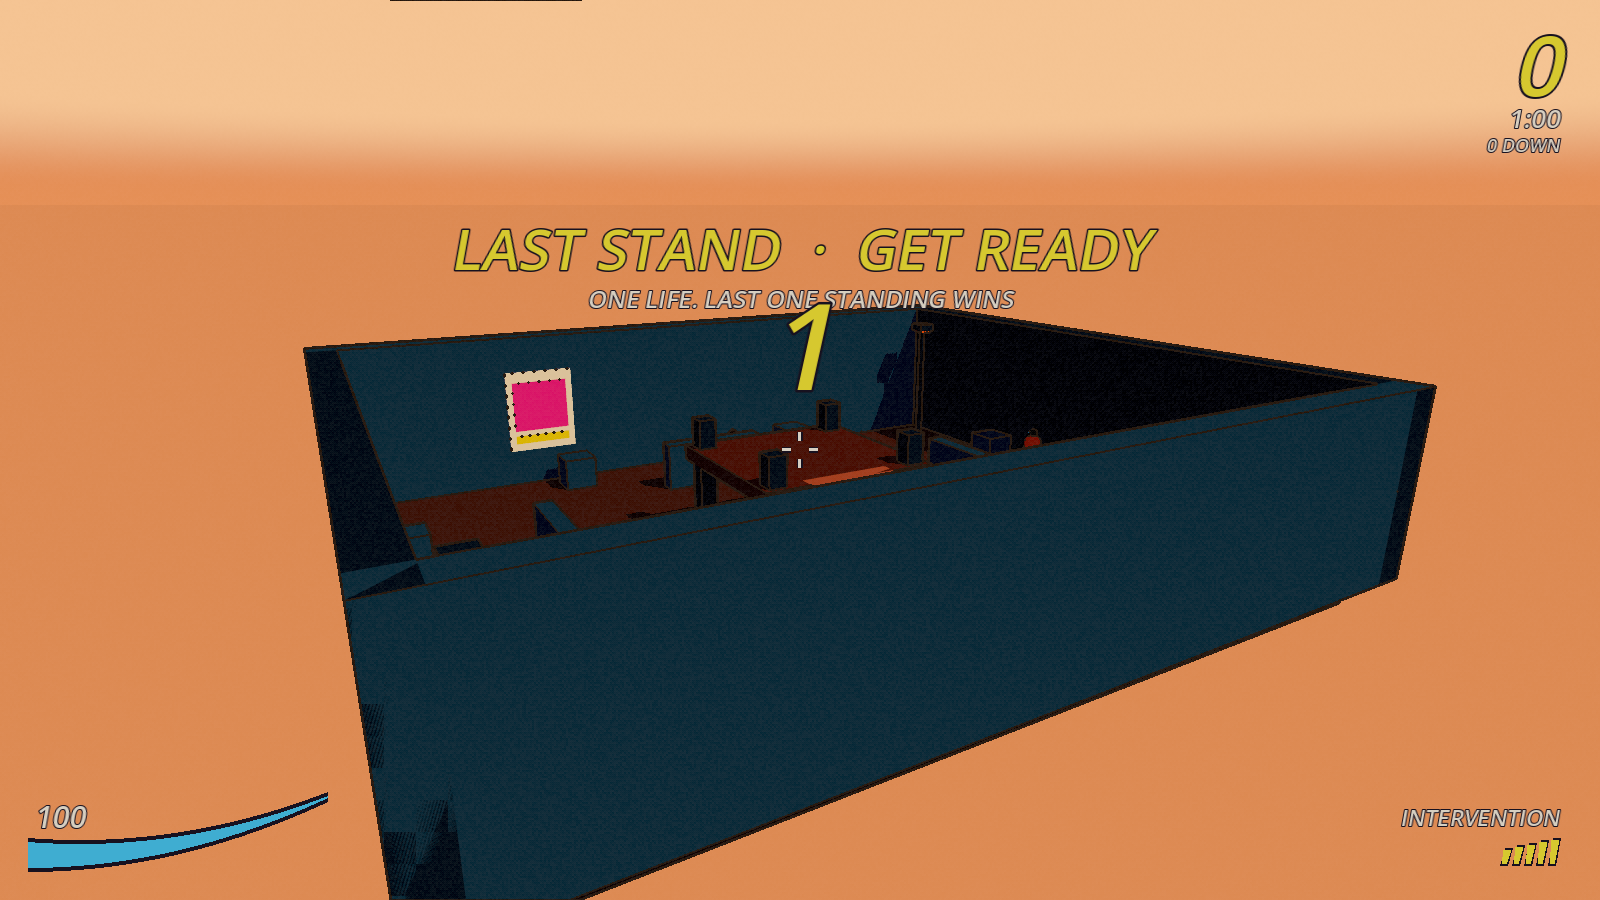
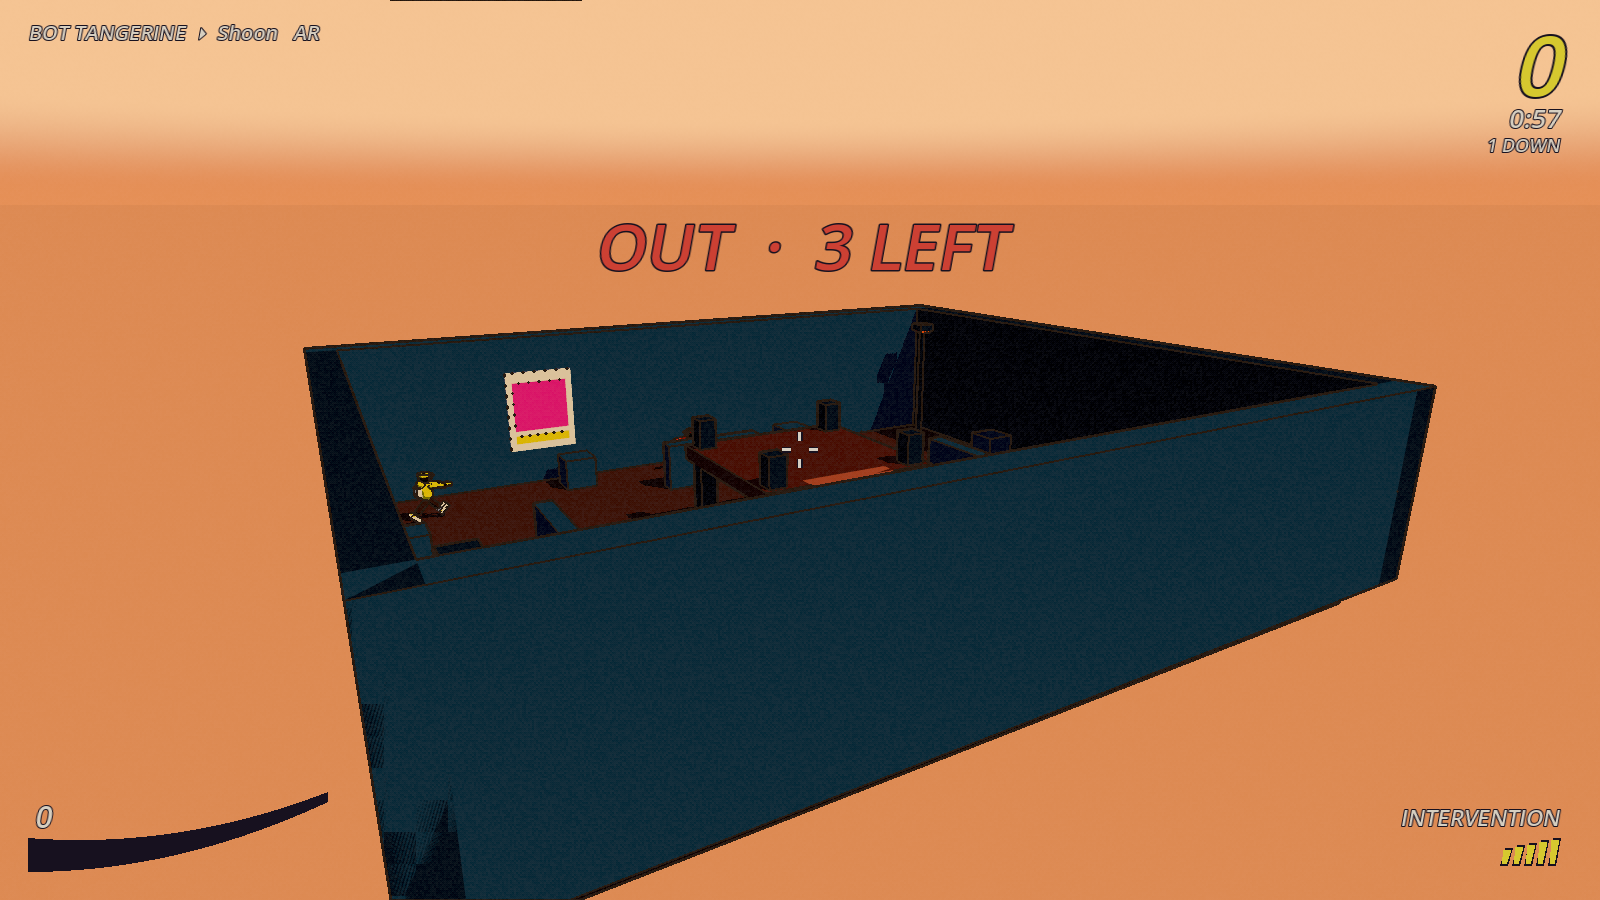
STATUS: labels and held guns

diff --git a/STATUS.md b/STATUS.md
@@ -248,6 +248,10 @@ winner hopping, `results.png`), the board counts down the last 10 s before an au
 figures flinch when hit, pawns verified to face their travel direction mid-hop
 (`board_hop.png`), `tools/check_all.sh` 3 of 3 PASS with the figures in.
 
+Then: name labels over other players (hidden while down) and the held gun shows the weapon
+slot (long cream rifle or short carbine); spectator rig creation guarded against a double
+build on the death frame.
+
 ### Bugs found and fixed today (all measured before and after)
 
 1. Client's view of remote players lagged whole tick loops → 25 % hit confirmation. netfox
